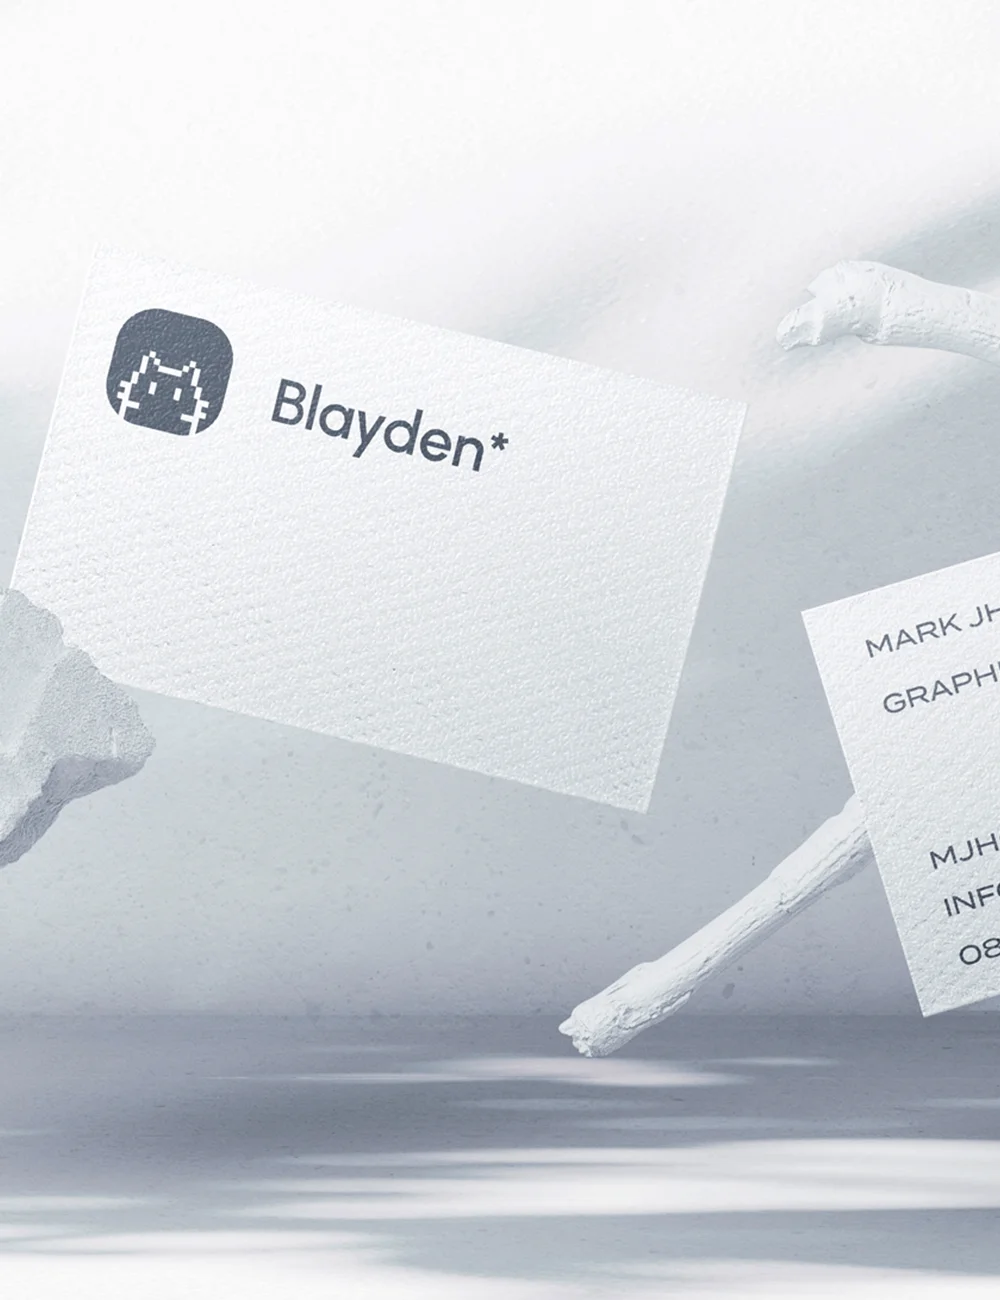
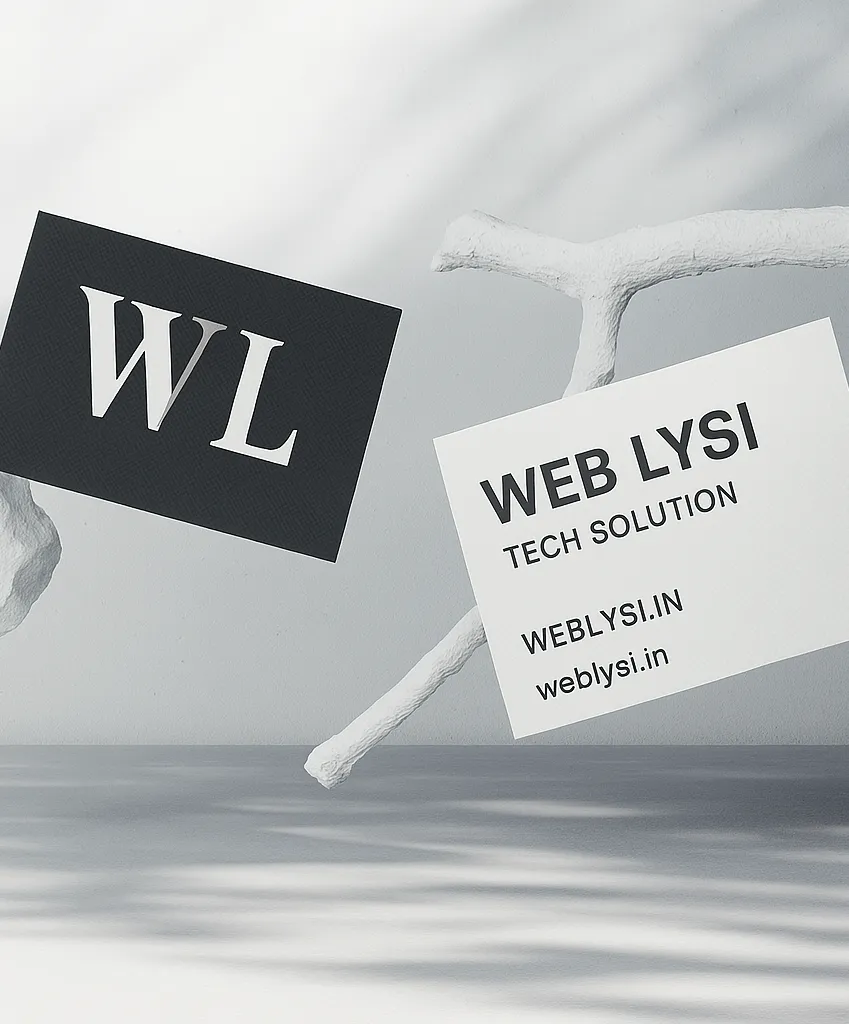
chnage images

diff --git a/index.html b/index.html
@@ -611,7 +611,7 @@
                                                                     <div class="project__feedback">
                                                                         <div class="feedback__fauthor d-flex">
                                                                             <div class="fauthor__avatar">
-                                                                                <img src="img/avatars/400x400_t03.webp"
+                                                                                <img src="img/avatars/person.webp"
                                                                                     alt="Review Author">
                                                                             </div>
                                                                             <div
@@ -880,7 +880,7 @@
                                                                     <div class="project__feedback">
                                                                         <div class="feedback__fauthor d-flex">
                                                                             <div class="fauthor__avatar">
-                                                                                <img src="img/avatars/400x400_t04.webp"
+                                                                                <img src="img/avatars/person.webp"
                                                                                     alt="Review Author">
                                                                             </div>
                                                                             <div
@@ -1161,7 +1161,7 @@
                                                                     <div class="project__feedback">
                                                                         <div class="feedback__fauthor d-flex">
                                                                             <div class="fauthor__avatar">
-                                                                                <img src="img/avatars/400x400_t01.webp"
+                                                                                <img src="img/avatars/person.webp"
                                                                                     alt="Review Author">
                                                                             </div>
                                                                             <div
@@ -1430,7 +1430,7 @@
                                                                     <div class="project__feedback">
                                                                         <div class="feedback__fauthor d-flex">
                                                                             <div class="fauthor__avatar">
-                                                                                <img src="img/avatars/400x400_t02.webp"
+                                                                                <img src="img/avatars/person.webp"
                                                                                     alt="Review Author">
                                                                             </div>
                                                                             <div
@@ -1551,7 +1551,7 @@
                                                     
                                                 </p>
                                                 <div class="btn-group about-descr__btnholder animate-in-up">
-                                                    <a class="btn btn-default hover-default" href="#0">
+                                                    <a class="btn btn-default hover-default" href="mailto:weblysi@gmail.com?subject=Message%20from%20your%20site">
                                                         <em></em>
                                                         <span class="btn-caption">
                                                             Contact Us
@@ -1566,18 +1566,17 @@
                                                 </div>
                                                 <div class="about-info__item animate-in-up">
                                                     <h6>
-                                                        <a class="link-inline text-link" href="tel:+91">+91</a>
+                                                        <a class="link-inline text-link" href="tel:+919744957283">+91 9744957283</a>
                                                     </h6>
                                                 </div>
                                                 <div class="about-info__item animate-in-up">
                                                     <h6>
-                                                        <a class="link-inline text-link"
-                                                            href="mailto:weblysi@gmail.com?subject=Message%20from%20your%20site">weblysi@gmail.com</a>
+                                                        <a class="link-inline text-link" href="mailto:weblysi@gmail.com?subject=Message%20from%20your%20site">weblysi@gmail.com</a>
                                                     </h6>
                                                 </div>
                                                 <div class="about-info__item animate-in-up">
                                                     <h6>
-                                                        <a class="link-inline text-link" href="https://maps.app.goo.gl/" target="_blank">Kannur, Kerala</a>
+                                                        <a class="link-inline text-link" href="https://maps.app.goo.gl/" target="_blank">Kannur, Kerala, India</a>
                                                     </h6>
                                                 </div>
                                             </div>
@@ -1605,7 +1604,7 @@
                                     <div class="achievements d-flex flex-column flex-md-row align-items-md-stretch">
                                         <div class="achievements__item d-flex flex-column grid-item animate-card-3">
                                             <div class="achievements__card">
-                                                <p class="achievements__number animate-in-up">40+</p>
+                                                <p class="achievements__number animate-in-up">12+</p>
                                                 <p class="achievements__descr animate-in-up">Happy clients</p>
                                             </div>
                                         </div>
@@ -1617,7 +1616,7 @@
                                         </div>
                                         <div class="achievements__item d-flex flex-column grid-item animate-card-3">
                                             <div class="achievements__card">
-                                                <p class="achievements__number animate-in-up">50+</p>
+                                                <p class="achievements__number animate-in-up">15+</p>
                                                 <p class="achievements__descr animate-in-up">Projects done</p>
                                             </div>
                                         </div>
@@ -2145,7 +2144,7 @@
 
                                     <!-- Section Subtitle Start -->
                                     <div class="block__subtitle">
-                                        <p class="tagline-chapter animate-in-up">My client's stories</p>
+                                        <p class="tagline-chapter animate-in-up">Our client's feedback</p>
                                     </div>
                                     <!-- Section Subtitle End -->
 
@@ -2164,17 +2163,14 @@
                                                                 <div class="col-12 col-lg-6 testimonials-card__tdata">
                                                                     <div class="testimonials-card__tauthor d-flex">
                                                                         <div class="tauthor__avatar animate-in-up">
-                                                                            <img src="img/avatars/400x400_t01.webp"
+                                                                            <img src="img/avatars/person.webp"
                                                                                 alt="Review Author">
                                                                         </div>
                                                                         <div
                                                                             class="tauthor__info d-flex flex-column justify-content-center">
                                                                             <h4 class="tauthor__name animate-in-up">Jithin</h4>
-                                                                            <p
-                                                                                class="tauthor__position small animate-in-up">
-                                                                                Brand Manager in
-                                                                                <a class="link-small-underline"
-                                                                                    href="#">Oyister Events</a>
+                                                                            <p class="tauthor__position small animate-in-up">Brand Manager in
+                                                                                <a class="link-small-underline" href="#">Oyister Events</a>
                                                                             </p>
                                                                             <div
                                                                                 class="tauthor__rating d-flex animate-in-up">
@@ -2222,18 +2218,14 @@
                                                                 <div class="col-12 col-lg-6 testimonials-card__tdata">
                                                                     <div class="testimonials-card__tauthor d-flex">
                                                                         <div class="tauthor__avatar animate-in-up">
-                                                                            <img src="img/avatars/400x400_t02.webp"
+                                                                            <img src="img/avatars/person.webp"
                                                                                 alt="Review Author">
                                                                         </div>
                                                                         <div
                                                                             class="tauthor__info d-flex flex-column justify-content-center">
-                                                                            <h4 class="tauthor__name animate-in-up">
-                                                                                Treesa</h4>
-                                                                            <p
-                                                                                class="tauthor__position small animate-in-up">
-                                                                                Manager at Bw
-                                                                                <a class="link-small-underline"
-                                                                                    href="#"></a>
+                                                                            <h4 class="tauthor__name animate-in-up">Treesa</h4>
+                                                                            <p class="tauthor__position small animate-in-up">Manager at Bw
+                                                                                <a class="link-small-underline" href="#"></a>
                                                                             </p>
                                                                             <div
                                                                                 class="tauthor__rating d-flex animate-in-up">
@@ -2490,39 +2482,25 @@
                                                             </div>
                                                             <div
                                                                 class="col-12 col-md-4 col-lg-3 contact-data__item grid-item">
-                                                                <p class="contact-data__title tagline-chapter animate-in-up">
-                                                                    Location
-                                                                </p>
+                                                                <p class="contact-data__title tagline-chapter animate-in-up">Location</p>
                                                                 <p class="contact-data__text small type-basic-160lh">
-                                                                    Kannur, Kerala<br>
-                                                                    India<br>
-                                                                    PIN: 670301<br>
+                                                                    Kannur, Kerala, India
                                                                 </p>
                                                             </div>
-                                                            <div
-                                                                class="col-12 col-md-4 col-lg-3 contact-data__item grid-item">
-                                                                <p
-                                                                    class="contact-data__title tagline-chapter animate-in-up">
-                                                                    Phone</p>
-                                                                <p class="contact-data__text small type-basic-160lh">
-                                                                    <a class="link-small-160lh animate-in-up"
-                                                                        href="tel:+12127089400">+91</a>
-                                                                    <br>
-                                                                    <a class="link-small-160lh animate-in-up"
-                                                                        href="tel:+15104570211">+91</a>
+                                                            <div class="col-12 col-md-4 col-lg-3 contact-data__item grid-item">
+                                                                <p class="contact-data__title tagline-chapter animate-in-up">Phone</p>
+                                                                <p class="contact-data__text small type-basic-160lh"> 
+                                                                    <a class="link-small-160lh animate-in-up" href="tel:++919744957283">
+                                                                        +91 9744957283
+                                                                    </a>
                                                                 </p>
                                                             </div>
-                                                            <div
-                                                                class="col-12 col-md-4 col-lg-3 contact-data__item grid-item">
-                                                                <p
-                                                                    class="contact-data__title tagline-chapter animate-in-up">
-                                                                    Email</p>
+                                                            <div class="col-12 col-md-4 col-lg-3 contact-data__item grid-item">
+                                                                <p class="contact-data__title tagline-chapter animate-in-up">Email</p>
                                                                 <p class="contact-data__text small type-basic-160lh">
-                                                                    <a class="link-small-160lh animate-in-up"
-                                                                        href="mailto:weblysi@gmail.com?subject=Message%20from%20your%20site">weblysi@gmail.com</a>
-                                                                    <br>
-                                                                    <a class="link-small-160lh animate-in-up"
-                                                                        href="mailto:weblysi@gmail.com?subject=Message%20from%20your%20site">weblysi@gmail.com</a>
+                                                                    <a class="link-small-160lh animate-in-up" href="mailto:weblysi@gmail.com?subject=Message%20from%20your%20site">
+                                                                        weblysi@gmail.com
+                                                                    </a>
                                                                 </p>
                                                             </div>
                                                         </div>

diff --git a/css/main.css b/css/main.css
@@ -247,7 +247,7 @@
 }
 
 .about-image-1 {
-    background-image: url("../img/backgrounds/weblysi.webp");
+    background-image: url("../img/backgrounds/weblysi.png");
 }
 
 .marquee-image-single-1 {
